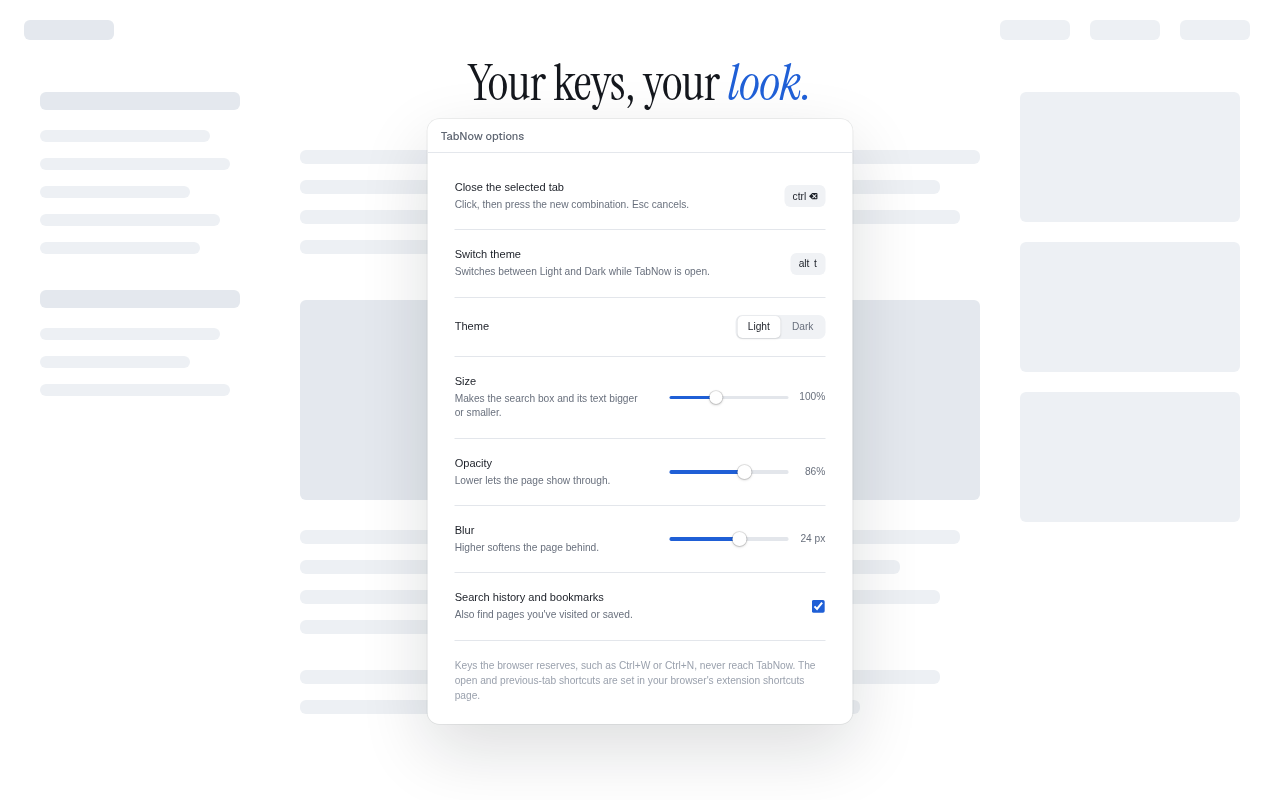
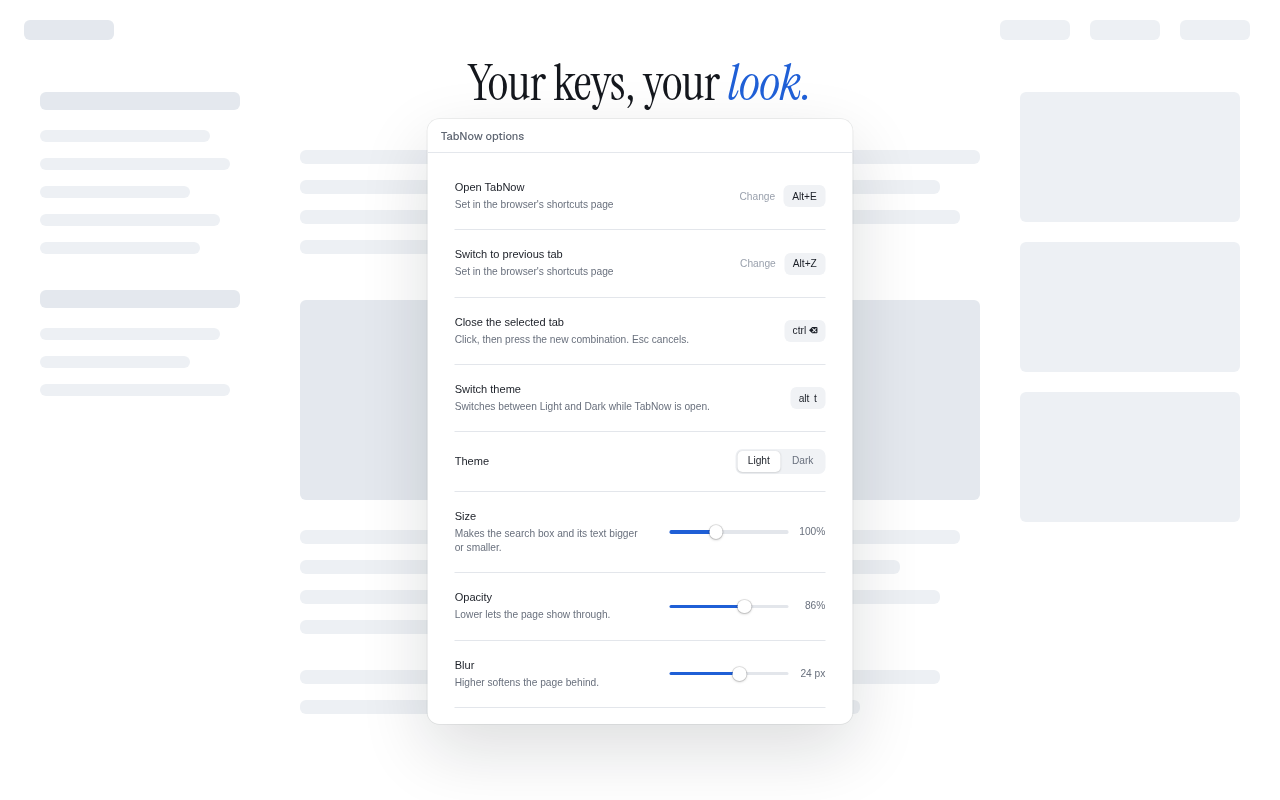
feat: options page shows the open and previous-tab keys (Alt+E, Alt+Z) with a Change button

diff --git a/extension/options.js b/extension/options.js
@@ -26,6 +26,18 @@ function recorder(id, key, combo, def) {
   reset.addEventListener("click", () => save(def));
   show();
 }
+// The open and previous-tab keys belong to the browser (defaults Alt+E and Alt+Z): show them, and "Change"
+// opens the browser's shortcuts page. Refreshed on focus, so a change there shows up on return.
+async function showCommands() {
+  const keys = Object.fromEntries((await chrome.commands.getAll()).map(c => [c.name, c.shortcut]));
+  document.getElementById("cmdOpen").textContent = keys._execute_action || msg("optNotSet");
+  document.getElementById("cmdPrevious").textContent = keys["previous-tab"] || msg("optNotSet");
+}
+showCommands();
+addEventListener("focus", showCommands);
+document.querySelectorAll("[data-shortcuts]").forEach(b =>
+  b.addEventListener("click", () => chrome.tabs.create({ url: "chrome://extensions/shortcuts" })));
+
 recorder("close", "closeKey", await loadClose(), DEFAULT_CLOSE);
 recorder("themeKey", "themeKey", await loadThemeKey(), DEFAULT_THEME_KEY);
 

diff --git a/extension/options.html b/extension/options.html
@@ -46,6 +46,14 @@
 <body>
 <main>
   <div class="row">
+    <div class="lbl"><span class="name" data-m="optOpen"></span><span class="hint" data-m="optBrowserKeyHint"></span></div>
+    <div class="ctl"><button class="reset" type="button" data-shortcuts data-m="optChange"></button><span class="rec" id="cmdOpen"></span></div>
+  </div>
+  <div class="row">
+    <div class="lbl"><span class="name" data-m="cmdPrevious"></span><span class="hint" data-m="optBrowserKeyHint"></span></div>
+    <div class="ctl"><button class="reset" type="button" data-shortcuts data-m="optChange"></button><span class="rec" id="cmdPrevious"></span></div>
+  </div>
+  <div class="row">
     <div class="lbl"><label class="name" for="close" data-m="optClose"></label><span class="hint" data-m="optCloseHint"></span></div>
     <div class="ctl"><button id="closeReset" class="reset" type="button" data-m="optReset"></button><button id="close" class="rec" type="button"></button></div>
   </div>

diff --git a/extension/tools/store-stub.js b/extension/tools/store-stub.js
@@ -87,6 +87,7 @@
     } },
     tabs: { query: () => asyncOf(tabs.map(t => ({ ...t }))), update() {}, remove() {}, create() {} },
     windows: { update() {} },
+    commands: { getAll: async () => [{ name: "_execute_action", shortcut: "Alt+E" }, { name: "previous-tab", shortcut: "Alt+Z" }] },
     permissions: {
       contains: async () => !!S.perms,
       request: async () => true,
